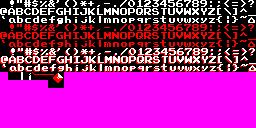
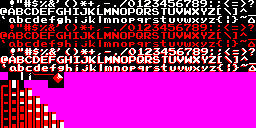
add ammo system with overlay display

Changed region(s): [[0.0, 0.625, 0.25, 1.0]]

diff --git a/art/overlaytiles.c b/art/overlaytiles.c
@@ -1,7 +1,7 @@
 /*
  * Exported with nin10kit v1.8
  * Invocation command was nin10kit --force --mode=sprites --bpp=4 --transparent=ff00ff overlaytiles overlaytiles.png 
- * Time-stamp: Monday 04/04/2022, 23:56:26
+ * Time-stamp: Saturday 04/09/2022, 22:30:47
  * 
  * Image Information
  * -----------------
@@ -661,12 +661,12 @@ const unsigned short overlaytiles[8192] =
 	0x0000,0x0000,0x0000,0x0000,0x0000,0x0000,0x0000,0x0000,
 	0x0000,0x0000,0x0000,0x0000,0x0000,0x0000,0x0000,0x0000,
 	0x0000,0x0000,0x0000,0x0000,0x0000,0x0000,0x0000,0x0000,
-	0x0000,0x0000,0x0000,0x0000,0x0000,0x0000,0x0000,0x0000,
-	0x0000,0x0000,0x0000,0x0000,0x0000,0x0000,0x0000,0x0000,
-	0x0000,0x0000,0x0000,0x0000,0x0000,0x0000,0x0000,0x0000,
-	0x0000,0x0000,0x0000,0x0000,0x0000,0x0000,0x0000,0x0000,
-	0x0000,0x0000,0x0000,0x0000,0x0000,0x0000,0x0000,0x0000,
-	0x0000,0x0000,0x0000,0x0000,0x0000,0x0000,0x0000,0x0000,
+	0x1111,0x1111,0x1111,0x1111,0x1111,0x1111,0x1111,0x1111,
+	0x1111,0x1111,0x2211,0x2222,0x2221,0x2222,0x1221,0x1111,
+	0x1221,0x3333,0x1221,0x3333,0x1221,0x3333,0x1221,0x3333,
+	0x1221,0x3333,0x1221,0x3333,0x1221,0x3333,0x1221,0x3333,
+	0x1221,0x1111,0x1221,0x1111,0x1221,0x1111,0x1221,0x1111,
+	0x1221,0x1111,0x1221,0x1111,0x1221,0x1111,0x1221,0x1111,
 	0x0000,0x0000,0x0000,0x0000,0x0000,0x0000,0x0000,0x0000,
 	0x0000,0x0000,0x0000,0x0000,0x0000,0x0000,0x0000,0x0000,
 	0x0000,0x0000,0x0000,0x0000,0x0000,0x0000,0x0000,0x0000,
@@ -725,6 +725,14 @@ const unsigned short overlaytiles[8192] =
 	0x0000,0x0000,0x0000,0x0000,0x0000,0x0000,0x0000,0x0000,
 	0x0000,0x0000,0x0000,0x0000,0x0000,0x0000,0x0000,0x0000,
 	0x0000,0x0000,0x0000,0x0000,0x0000,0x0000,0x0000,0x0000,
+	0x1221,0x1111,0x1221,0x1111,0x1221,0x1111,0x1221,0x1111,
+	0x1221,0x1111,0x1221,0x1111,0x1221,0x2222,0x1221,0x2222,
+	0x1221,0x1111,0x1221,0x1111,0x1221,0x1111,0x1221,0x1111,
+	0x1221,0x2222,0x1221,0x2222,0x1221,0x3333,0x1221,0x3333,
+	0x1221,0x1111,0x1221,0x1111,0x1221,0x2222,0x1221,0x2222,
+	0x1221,0x3333,0x1221,0x3333,0x1221,0x3333,0x1221,0x3333,
+	0x1221,0x2222,0x1221,0x2222,0x1221,0x3333,0x1221,0x3333,
+	0x1221,0x3333,0x1221,0x3333,0x1221,0x3333,0x1221,0x3333,
 	0x0000,0x0000,0x0000,0x0000,0x0000,0x0000,0x0000,0x0000,
 	0x0000,0x0000,0x0000,0x0000,0x0000,0x0000,0x0000,0x0000,
 	0x0000,0x0000,0x0000,0x0000,0x0000,0x0000,0x0000,0x0000,
@@ -781,6 +789,16 @@ const unsigned short overlaytiles[8192] =
 	0x0000,0x0000,0x0000,0x0000,0x0000,0x0000,0x0000,0x0000,
 	0x0000,0x0000,0x0000,0x0000,0x0000,0x0000,0x0000,0x0000,
 	0x0000,0x0000,0x0000,0x0000,0x0000,0x0000,0x0000,0x0000,
+	0x1221,0x1111,0x1221,0x1111,0x1221,0x1111,0x1221,0x1111,
+	0x1221,0x1111,0x1221,0x1111,0x1221,0x2222,0x1221,0x2222,
+	0x1221,0x1111,0x1221,0x1111,0x1221,0x1111,0x1221,0x1111,
+	0x1221,0x2222,0x1221,0x2222,0x1221,0x2222,0x1221,0x2222,
+	0x1221,0x1111,0x1221,0x1111,0x1221,0x2222,0x1221,0x2222,
+	0x1221,0x2222,0x1221,0x2222,0x1221,0x3333,0x1221,0x3333,
+	0x1221,0x2222,0x1221,0x2222,0x1221,0x2222,0x1221,0x2222,
+	0x1221,0x3333,0x1221,0x3333,0x1221,0x3333,0x1221,0x3333,
+	0x1221,0x2222,0x1221,0x2222,0x1221,0x3333,0x1221,0x3333,
+	0x1221,0x3333,0x1221,0x3333,0x1221,0x3333,0x1221,0x3333,
 	0x0000,0x0000,0x0000,0x0000,0x0000,0x0000,0x0000,0x0000,
 	0x0000,0x0000,0x0000,0x0000,0x0000,0x0000,0x0000,0x0000,
 	0x0000,0x0000,0x0000,0x0000,0x0000,0x0000,0x0000,0x0000,
@@ -835,6 +853,18 @@ const unsigned short overlaytiles[8192] =
 	0x0000,0x0000,0x0000,0x0000,0x0000,0x0000,0x0000,0x0000,
 	0x0000,0x0000,0x0000,0x0000,0x0000,0x0000,0x0000,0x0000,
 	0x0000,0x0000,0x0000,0x0000,0x0000,0x0000,0x0000,0x0000,
+	0x1221,0x1111,0x1221,0x1111,0x1221,0x1111,0x1221,0x1111,
+	0x1221,0x1111,0x1221,0x1111,0x1221,0x2222,0x1221,0x2222,
+	0x1221,0x1111,0x1221,0x1111,0x1221,0x1111,0x1221,0x1111,
+	0x1221,0x2222,0x1221,0x2222,0x1221,0x2222,0x1221,0x2222,
+	0x1221,0x1111,0x1221,0x1111,0x1221,0x2222,0x1221,0x2222,
+	0x1221,0x2222,0x1221,0x2222,0x1221,0x2222,0x1221,0x2222,
+	0x1221,0x2222,0x1221,0x2222,0x1221,0x2222,0x1221,0x2222,
+	0x1221,0x2222,0x1221,0x2222,0x1221,0x3333,0x1221,0x3333,
+	0x1221,0x2222,0x1221,0x2222,0x1221,0x2222,0x1221,0x2222,
+	0x1221,0x3333,0x1221,0x3333,0x1221,0x3333,0x1221,0x3333,
+	0x1221,0x2222,0x1221,0x2222,0x1221,0x3333,0x1221,0x3333,
+	0x1221,0x3333,0x1221,0x3333,0x1221,0x3333,0x1221,0x3333,
 	0x0000,0x0000,0x0000,0x0000,0x0000,0x0000,0x0000,0x0000,
 	0x0000,0x0000,0x0000,0x0000,0x0000,0x0000,0x0000,0x0000,
 	0x0000,0x0000,0x0000,0x0000,0x0000,0x0000,0x0000,0x0000,
@@ -887,6 +917,20 @@ const unsigned short overlaytiles[8192] =
 	0x0000,0x0000,0x0000,0x0000,0x0000,0x0000,0x0000,0x0000,
 	0x0000,0x0000,0x0000,0x0000,0x0000,0x0000,0x0000,0x0000,
 	0x0000,0x0000,0x0000,0x0000,0x0000,0x0000,0x0000,0x0000,
+	0x1221,0x1111,0x1221,0x1111,0x1221,0x1111,0x1221,0x1111,
+	0x1221,0x1111,0x1221,0x1111,0x1221,0x2222,0x1221,0x2222,
+	0x1221,0x1111,0x1221,0x1111,0x1221,0x1111,0x1221,0x1111,
+	0x1221,0x2222,0x1221,0x2222,0x1221,0x2222,0x1221,0x2222,
+	0x1221,0x1111,0x1221,0x1111,0x1221,0x2222,0x1221,0x2222,
+	0x1221,0x2222,0x1221,0x2222,0x1221,0x2222,0x1221,0x2222,
+	0x1221,0x2222,0x1221,0x2222,0x1221,0x2222,0x1221,0x2222,
+	0x1221,0x2222,0x1221,0x2222,0x1221,0x2222,0x1221,0x2222,
+	0x1221,0x2222,0x1221,0x2222,0x1221,0x2222,0x1221,0x2222,
+	0x1221,0x2222,0x1221,0x2222,0x1221,0x3333,0x1221,0x3333,
+	0x1221,0x2222,0x1221,0x2222,0x1221,0x2222,0x1221,0x2222,
+	0x1221,0x3333,0x1221,0x3333,0x1221,0x3333,0x1221,0x3333,
+	0x1221,0x2222,0x1221,0x2222,0x1221,0x3333,0x1221,0x3333,
+	0x1221,0x3333,0x1221,0x3333,0x1221,0x3333,0x1221,0x3333,
 	0x0000,0x0000,0x0000,0x0000,0x0000,0x0000,0x0000,0x0000,
 	0x0000,0x0000,0x0000,0x0000,0x0000,0x0000,0x0000,0x0000,
 	0x0000,0x0000,0x0000,0x0000,0x0000,0x0000,0x0000,0x0000,
@@ -937,66 +981,22 @@ const unsigned short overlaytiles[8192] =
 	0x0000,0x0000,0x0000,0x0000,0x0000,0x0000,0x0000,0x0000,
 	0x0000,0x0000,0x0000,0x0000,0x0000,0x0000,0x0000,0x0000,
 	0x0000,0x0000,0x0000,0x0000,0x0000,0x0000,0x0000,0x0000,
-	0x0000,0x0000,0x0000,0x0000,0x0000,0x0000,0x0000,0x0000,
-	0x0000,0x0000,0x0000,0x0000,0x0000,0x0000,0x0000,0x0000,
-	0x0000,0x0000,0x0000,0x0000,0x0000,0x0000,0x0000,0x0000,
-	0x0000,0x0000,0x0000,0x0000,0x0000,0x0000,0x0000,0x0000,
-	0x0000,0x0000,0x0000,0x0000,0x0000,0x0000,0x0000,0x0000,
-	0x0000,0x0000,0x0000,0x0000,0x0000,0x0000,0x0000,0x0000,
-	0x0000,0x0000,0x0000,0x0000,0x0000,0x0000,0x0000,0x0000,
-	0x0000,0x0000,0x0000,0x0000,0x0000,0x0000,0x0000,0x0000,
-	0x0000,0x0000,0x0000,0x0000,0x0000,0x0000,0x0000,0x0000,
-	0x0000,0x0000,0x0000,0x0000,0x0000,0x0000,0x0000,0x0000,
-	0x0000,0x0000,0x0000,0x0000,0x0000,0x0000,0x0000,0x0000,
-	0x0000,0x0000,0x0000,0x0000,0x0000,0x0000,0x0000,0x0000,
-	0x0000,0x0000,0x0000,0x0000,0x0000,0x0000,0x0000,0x0000,
-	0x0000,0x0000,0x0000,0x0000,0x0000,0x0000,0x0000,0x0000,
-	0x0000,0x0000,0x0000,0x0000,0x0000,0x0000,0x0000,0x0000,
-	0x0000,0x0000,0x0000,0x0000,0x0000,0x0000,0x0000,0x0000,
-	0x0000,0x0000,0x0000,0x0000,0x0000,0x0000,0x0000,0x0000,
-	0x0000,0x0000,0x0000,0x0000,0x0000,0x0000,0x0000,0x0000,
-	0x0000,0x0000,0x0000,0x0000,0x0000,0x0000,0x0000,0x0000,
-	0x0000,0x0000,0x0000,0x0000,0x0000,0x0000,0x0000,0x0000,
-	0x0000,0x0000,0x0000,0x0000,0x0000,0x0000,0x0000,0x0000,
-	0x0000,0x0000,0x0000,0x0000,0x0000,0x0000,0x0000,0x0000,
-	0x0000,0x0000,0x0000,0x0000,0x0000,0x0000,0x0000,0x0000,
-	0x0000,0x0000,0x0000,0x0000,0x0000,0x0000,0x0000,0x0000,
-	0x0000,0x0000,0x0000,0x0000,0x0000,0x0000,0x0000,0x0000,
-	0x0000,0x0000,0x0000,0x0000,0x0000,0x0000,0x0000,0x0000,
-	0x0000,0x0000,0x0000,0x0000,0x0000,0x0000,0x0000,0x0000,
-	0x0000,0x0000,0x0000,0x0000,0x0000,0x0000,0x0000,0x0000,
-	0x0000,0x0000,0x0000,0x0000,0x0000,0x0000,0x0000,0x0000,
-	0x0000,0x0000,0x0000,0x0000,0x0000,0x0000,0x0000,0x0000,
-	0x0000,0x0000,0x0000,0x0000,0x0000,0x0000,0x0000,0x0000,
-	0x0000,0x0000,0x0000,0x0000,0x0000,0x0000,0x0000,0x0000,
-	0x0000,0x0000,0x0000,0x0000,0x0000,0x0000,0x0000,0x0000,
-	0x0000,0x0000,0x0000,0x0000,0x0000,0x0000,0x0000,0x0000,
-	0x0000,0x0000,0x0000,0x0000,0x0000,0x0000,0x0000,0x0000,
-	0x0000,0x0000,0x0000,0x0000,0x0000,0x0000,0x0000,0x0000,
-	0x0000,0x0000,0x0000,0x0000,0x0000,0x0000,0x0000,0x0000,
-	0x0000,0x0000,0x0000,0x0000,0x0000,0x0000,0x0000,0x0000,
-	0x0000,0x0000,0x0000,0x0000,0x0000,0x0000,0x0000,0x0000,
-	0x0000,0x0000,0x0000,0x0000,0x0000,0x0000,0x0000,0x0000,
-	0x0000,0x0000,0x0000,0x0000,0x0000,0x0000,0x0000,0x0000,
-	0x0000,0x0000,0x0000,0x0000,0x0000,0x0000,0x0000,0x0000,
-	0x0000,0x0000,0x0000,0x0000,0x0000,0x0000,0x0000,0x0000,
-	0x0000,0x0000,0x0000,0x0000,0x0000,0x0000,0x0000,0x0000,
-	0x0000,0x0000,0x0000,0x0000,0x0000,0x0000,0x0000,0x0000,
-	0x0000,0x0000,0x0000,0x0000,0x0000,0x0000,0x0000,0x0000,
-	0x0000,0x0000,0x0000,0x0000,0x0000,0x0000,0x0000,0x0000,
-	0x0000,0x0000,0x0000,0x0000,0x0000,0x0000,0x0000,0x0000,
-	0x0000,0x0000,0x0000,0x0000,0x0000,0x0000,0x0000,0x0000,
-	0x0000,0x0000,0x0000,0x0000,0x0000,0x0000,0x0000,0x0000,
-	0x0000,0x0000,0x0000,0x0000,0x0000,0x0000,0x0000,0x0000,
-	0x0000,0x0000,0x0000,0x0000,0x0000,0x0000,0x0000,0x0000,
-	0x0000,0x0000,0x0000,0x0000,0x0000,0x0000,0x0000,0x0000,
-	0x0000,0x0000,0x0000,0x0000,0x0000,0x0000,0x0000,0x0000,
-	0x0000,0x0000,0x0000,0x0000,0x0000,0x0000,0x0000,0x0000,
-	0x0000,0x0000,0x0000,0x0000,0x0000,0x0000,0x0000,0x0000,
-	0x0000,0x0000,0x0000,0x0000,0x0000,0x0000,0x0000,0x0000,
-	0x0000,0x0000,0x0000,0x0000,0x0000,0x0000,0x0000,0x0000,
-	0x0000,0x0000,0x0000,0x0000,0x0000,0x0000,0x0000,0x0000,
-	0x0000,0x0000,0x0000,0x0000,0x0000,0x0000,0x0000,0x0000,
+	0x1221,0x1111,0x1221,0x1111,0x1221,0x1111,0x1221,0x1111,
+	0x1221,0x1111,0x1221,0x1111,0x1221,0x2222,0x1221,0x2222,
+	0x1221,0x1111,0x1221,0x1111,0x1221,0x1111,0x1221,0x1111,
+	0x1221,0x2222,0x1221,0x2222,0x1221,0x2222,0x1221,0x2222,
+	0x1221,0x1111,0x1221,0x1111,0x1221,0x2222,0x1221,0x2222,
+	0x1221,0x2222,0x1221,0x2222,0x1221,0x2222,0x1221,0x2222,
+	0x1221,0x2222,0x1221,0x2222,0x1221,0x2222,0x1221,0x2222,
+	0x1221,0x2222,0x1221,0x2222,0x1221,0x2222,0x1221,0x2222,
+	0x1221,0x2222,0x1221,0x2222,0x1221,0x2222,0x1221,0x2222,
+	0x1221,0x2222,0x1221,0x2222,0x1221,0x2222,0x1221,0x2222,
+	0x1221,0x2222,0x1221,0x2222,0x1221,0x2222,0x1221,0x2222,
+	0x1221,0x2222,0x1221,0x2222,0x1221,0x3333,0x1221,0x3333,
+	0x1221,0x2222,0x1221,0x2222,0x1221,0x2222,0x1221,0x2222,
+	0x1221,0x3333,0x1221,0x3333,0x1221,0x3333,0x1221,0x3333,
+	0x1221,0x2222,0x1221,0x2222,0x1221,0x3333,0x1221,0x3333,
+	0x1221,0x3333,0x1221,0x3333,0x1221,0x3333,0x1221,0x3333,
 	0x0000,0x0000,0x0000,0x0000,0x0000,0x0000,0x0000,0x0000,
 	0x0000,0x0000,0x0000,0x0000,0x0000,0x0000,0x0000,0x0000,
 	0x0000,0x0000,0x0000,0x0000,0x0000,0x0000,0x0000,0x0000,

diff --git a/overlay.c b/overlay.c
@@ -36,11 +36,18 @@ void initOverlay(void) {
     SCREENBLOCK[31].tilemap[28+32*2] = (32*10+6) | 1<<12;
     SCREENBLOCK[31].tilemap[29+32*2] = (32*10+7) | 1<<12;
 
+    SCREENBLOCK[31].tilemap[OFFSET(26,2,32)] = OFFSET(0, 10, 32) | 1 << 12;
+    SCREENBLOCK[31].tilemap[OFFSET(27,2,32)] = OFFSET(0, 10, 32) | 1 << 12 | 1<<10;
+    SCREENBLOCK[31].tilemap[OFFSET(26,17,32)] = OFFSET(0, 10, 32) | 1 << 12 | 1<<11;
+    SCREENBLOCK[31].tilemap[OFFSET(27,17,32)] = OFFSET(0, 10, 32) | 1 << 12 | 1<<10 | 1<<11;
+
     printToOverlay("0000", 26, 0, 0);
 
-    printToOverlay("DOWN", 26, 17, 0);
-    printToOverlay("WELL", 26, 18, 1);
-    printToOverlay("GBA", 26, 19, 2);
+    printToOverlay("DOWN", 0, 17, 0);
+    printToOverlay("WELL", 0, 18, 1);
+    printToOverlay("GBA", 0, 19, 2);
+
+    updateAmmoDisplay(0,1);
     
 }
 
@@ -71,6 +78,20 @@ void printToOverlay(char *str, int col, int row, int font) {
         str++;
         col++;
     }
+}
+
+void updateAmmoDisplay(int ammo, int perShot) {
+    for (int i = 0; i < 14; i++) {
+        int tileCol = 16-i;
+        int tileIndex = OFFSET(ammo - 4 * i - 1, 10+perShot,32);
+        if (ammo <= i*4) tileIndex = OFFSET(2,10,32); // Fully Empty tile
+        if (ammo - perShot >= 4*(i+1)) tileIndex = OFFSET(1,10,32); // Filled tile
+        SCREENBLOCK[31].tilemap[OFFSET(26,tileCol,32)] = tileIndex | 1<<12;
+        SCREENBLOCK[31].tilemap[OFFSET(27,tileCol,32)] = tileIndex | 1<<12 | 1<<10;
+    }
+    char ammoText[4];
+    sprintf(ammoText, "%d", ammo);
+    printToOverlay(ammoText, 26, 18, 0);
 }
 
 Menu *currentMenu = NULL;

diff --git a/player.c b/player.c
@@ -79,6 +79,8 @@ int initializePlayer(GameObject* this) {
     data->runningJump = 0;
     data->canFire = 0;
     data->fireTime = 0;
+    data->charge = 8;
+    data->ammo = 8;
     this->data = data;
 
     return 0;
@@ -137,7 +139,10 @@ void updatePlayer(GameObject* this) {
         Collision yCollision = collideCollisionMap(data->collider, activeCollisionMap, activeCollisionMapWidth, 4);
         if (yCollision.push.y) {
             data->collider.pos.y += yCollision.push.y;
-            if (yCollision.push.y < 0) data->state = PLAYER_IDLE;
+            if (yCollision.push.y < 0) {
+                data->state = PLAYER_IDLE;
+                data->ammo = data->charge;
+            }
         }
     }
 
@@ -147,11 +152,12 @@ void updatePlayer(GameObject* this) {
             data->fireTime = 7;
         }
 
-        if (data->canFire && (BUTTON_HELD(BUTTON_A) || BUTTON_HELD(BUTTON_B)) && data->fireTime >= 7) {
+        if (data->canFire && (BUTTON_HELD(BUTTON_A) || BUTTON_HELD(BUTTON_B)) && data->fireTime >= 7 && data->ammo > 0) {
             data->fireTime = 0;
             data->runningJump = 0;
+            data->ammo -= 1;
             GameObject *newBullet = newGameObject(&bulletType);
-            data->stateTime = 20;
+            data->stateTime = 21;
             if (newBullet->active) {
                 BulletData *bulletData = newBullet->data;
                 bulletData->collider.pos.x = data->collider.pos.x;

diff --git a/art/overlaytiles.h b/art/overlaytiles.h
@@ -1,7 +1,7 @@
 /*
  * Exported with nin10kit v1.8
  * Invocation command was nin10kit --force --mode=sprites --bpp=4 --transparent=ff00ff overlaytiles overlaytiles.png 
- * Time-stamp: Monday 04/04/2022, 23:56:26
+ * Time-stamp: Saturday 04/09/2022, 22:30:47
  * 
  * Image Information
  * -----------------

diff --git a/gamestate.c b/gamestate.c
@@ -178,6 +178,10 @@ void updateSurface(void) {
     REG_BG0VOFF = cameraPos.y;
     REG_BG3HOFF = cameraPos.x*5/24-40;
 
+    if (playerData) {
+        updateAmmoDisplay(playerData->ammo, 1);
+    }
+
     updateSprites();
 
     if (playerCanMove && BUTTON_PRESSED(BUTTON_START)) {

diff --git a/overlay.h b/overlay.h
@@ -13,6 +13,8 @@ void fillOverlayRect(int col, int row, int width, int height, short tileId);
 
 void printToOverlay(char *str, int col, int row, int font);
 
+void updateAmmoDisplay(int ammo, int perShot);
+
 extern unsigned int currentMenuIndex;
 
 void loadMenu(Menu* menu);

diff --git a/player.h b/player.h
@@ -17,6 +17,8 @@ typedef struct playerdata {
     int runningJump;
     int canFire;
     int fireTime;
+    int charge;
+    int ammo;
 } PlayerData;
 
 #endif
